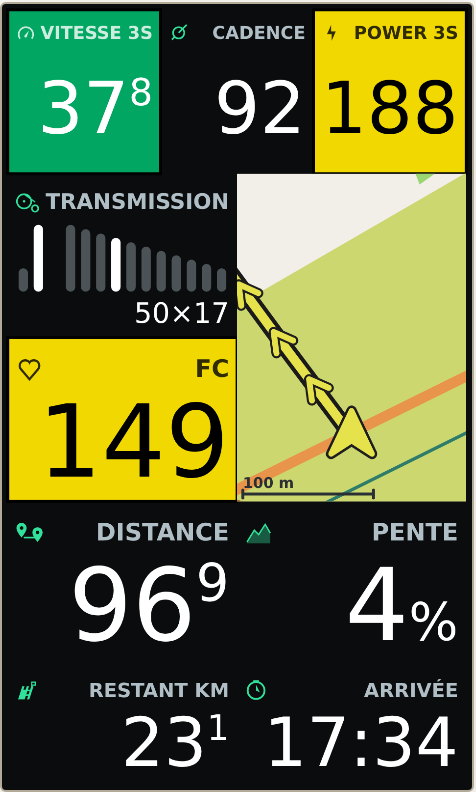
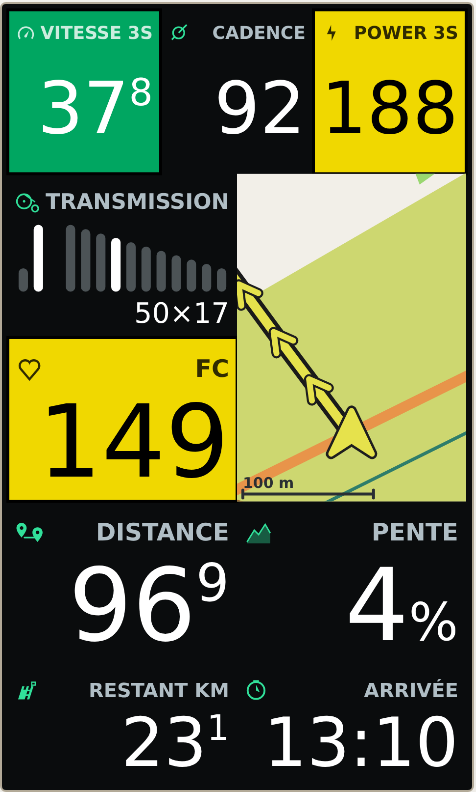
Reporter le cerne du tracé parcouru dans les planches
Claude-Session: https://claude.ai/code/session_013KNvL6kHkzLQjmszhNZFFm

Changed region(s): [[0.7941, 0.8788, 0.9706, 0.9697], [0.6471, 0.9091, 0.7353, 0.9697]]

diff --git a/docs/planches.html b/docs/planches.html
@@ -231,7 +231,7 @@
       et demi de diagonale. Toutes les cotes, les couleurs et les icônes viennent du code de
       la branche.</p>
     <div class="stamp">
-      <span>Version <b>b20c0ff</b></span>
+      <span>Version <b>5cbb78a</b></span>
       <span>Branche <b>claude/hammerhead-karou-3-app-9yvabn</b></span>
       <span>Écran <b>480 × 800 px · ≈389 ppp</b></span>
     </div>
@@ -404,6 +404,8 @@
     </div>
     <div class="plate-body">
       <ul class="log">
+        <li><span class="sha">5cbb78a</span><p>La part parcourue du tracé cernée elle aussi
+          <small>Sans cerne elle disparaissait sur le fond clair : la flèche flottait sur du vide.</small></p></li>
         <li><span class="sha">b20c0ff</span><p>Le peigne retrouve sa hauteur
           <small>Reprise sur le corps des dentures, que les barres valent mieux que les nombres.</small></p></li>
         <li><span class="sha">5203617</span><p>La ligne des dentures écartée du bord de sa case
@@ -916,7 +918,7 @@ const POIS = [{position: PATH[16], label:"Fontaine"}];
 const AHEAD_FRACTION = 0.80, MIN_ROAD_WIDTH = 1, MAX_ROAD_WIDTH = 26;
 const ROUTE_WIDTH_NEAR = 14, ROUTE_WIDTH_FAR = 6, ROUTE_OUTLINE_WIDTH = 4;
 const MIN_RANGE = 200, MAX_RANGE = 10000, TRACE_THINNING = 2/3;
-const TRAVELED_WIDTH_RATIO = 0.7, TRAVELED_ALPHA = 0x59;
+const TRAVELED_WIDTH_RATIO = 0.75, TRAVELED_ALPHA = 0xCC;
 const CHEVRON_SPACING_RATIO = 4.3, CHEVRON_STROKE_RATIO = 0.43;
 const CHEVRON_OVERHANG_RATIO = 0.35, CHEVRON_BORDER_RATIO = 0.35;
 const CHEVRON_SWEEP = 1.6, CHEVRON_ARM = 0.9;
@@ -994,7 +996,9 @@ function drawMap(ctx, area, model){
   const traveled = screen.slice(0, here+1);
   const trace = pts => { ctx.beginPath(); pts.forEach((p,i)=> i?ctx.lineTo(p.x,p.y):ctx.moveTo(p.x,p.y)); };
 
+  // La part parcourue a son propre cerne : sans lui elle disparaît sur le fond clair.
   ctx.lineCap = "round"; ctx.lineJoin = "round";
+  trace(traveled);  ctx.lineWidth = width*TRAVELED_WIDTH_RATIO + ROUTE_OUTLINE_WIDTH*2; ctx.strokeStyle = PAL.routeOutline; ctx.stroke();
   trace(remaining); ctx.lineWidth = width + ROUTE_OUTLINE_WIDTH*2; ctx.strokeStyle = PAL.routeOutline; ctx.stroke();
   trace(traveled);  ctx.lineWidth = width*TRAVELED_WIDTH_RATIO;    ctx.strokeStyle = alphaOf(PAL.routeLine, TRAVELED_ALPHA); ctx.stroke();
   trace(remaining); ctx.lineWidth = width;                          ctx.strokeStyle = PAL.routeLine; ctx.stroke();

diff --git a/docs/planches.md b/docs/planches.md
@@ -16,7 +16,7 @@ sont ceux des sources.
 > en Roboto, plus étroit que la fonte système d'un navigateur, et les libellés — dont le corps
 > s'ajuste à la largeur disponible — sortent donc un peu plus petits ici que sur l'appareil.
 
-Version reproduite : **`b20c0ff`**.
+Version reproduite : **`5cbb78a`**.
 
 ## La page interactive
 
